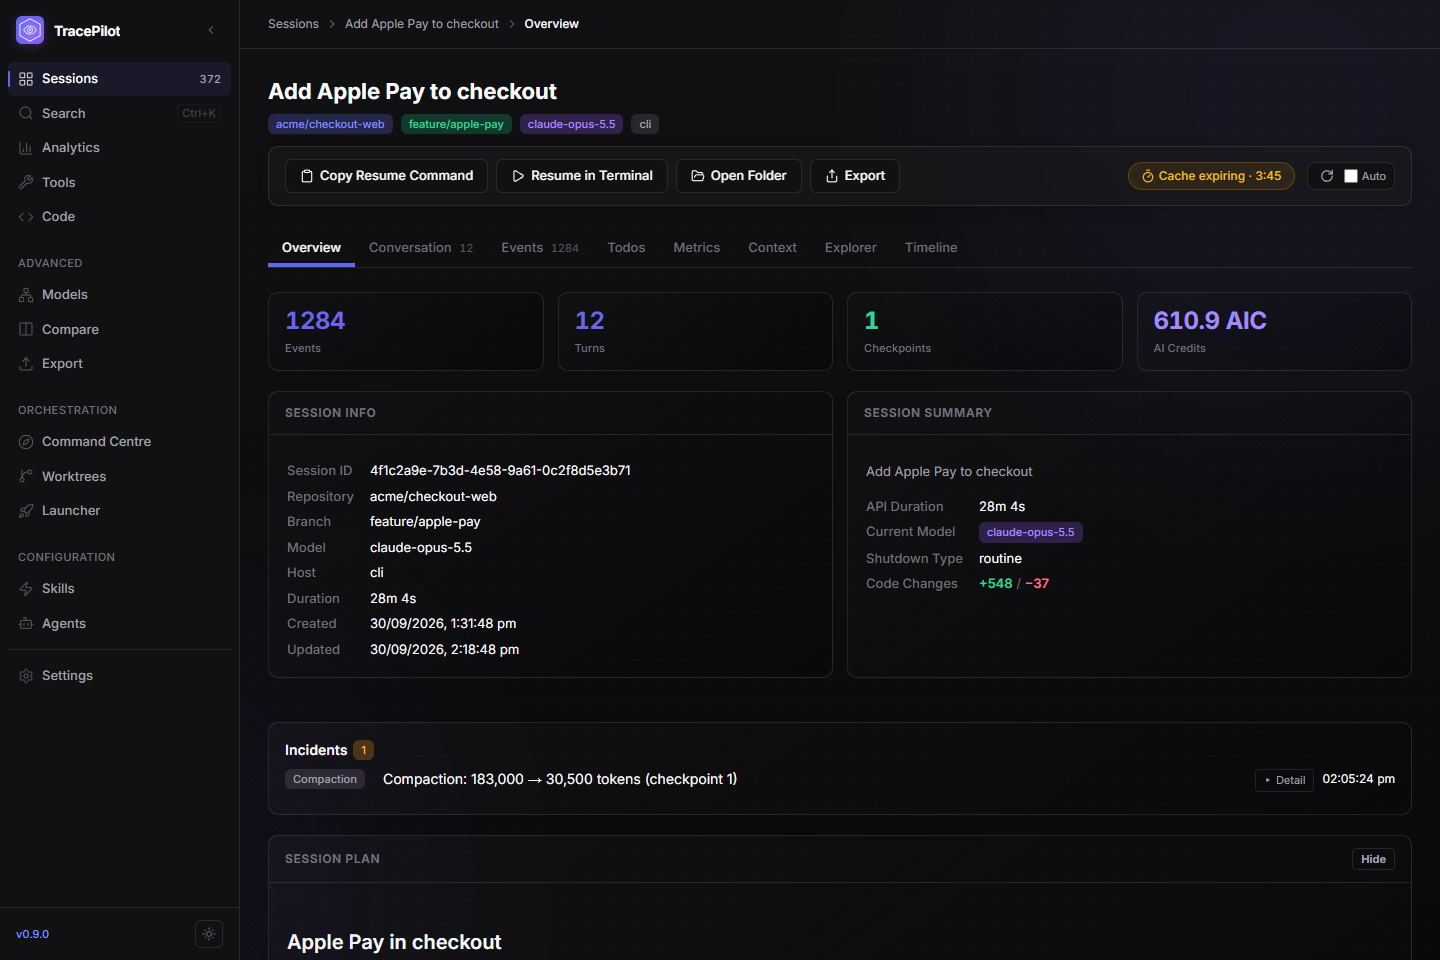
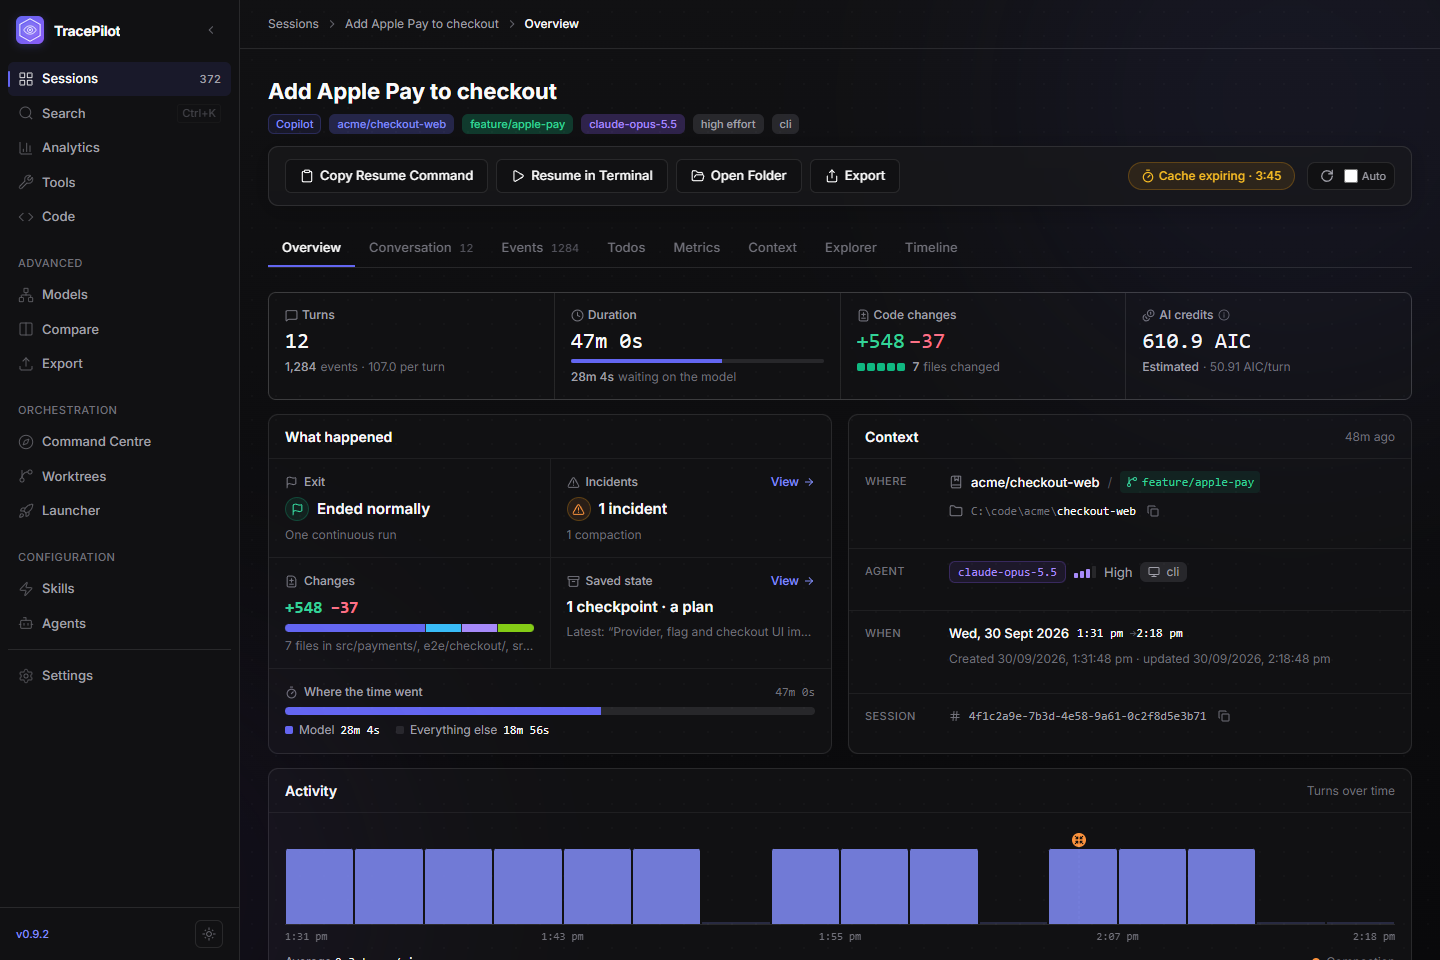
docs(readme): cover Claude Code sessions and refresh the screenshots (#1029)
* docs(readme): cover Claude Code sessions and refresh the screenshots

The README now describes TracePilot as a viewer for both Copilot CLI and
Claude Code sessions: where each source is read from, the source switch,
USD versus AI Credit costs, what stays Copilot-only, and the redesigned
Overview and analytics dashboards. The release how-to is cut to a pointer
to the release guide.

The README showcase now matches the current app:

- About a third of its sessions are Claude Code sessions (Claude Code
  model ids, no host), with Busy and Waiting run states.
- Analytics rows, costs and per-day USD are split by source; Tools has
  calls per day; the hero session has turn activity and high reasoning.
- The Analytics capture shows the Activity chart as lines, so Copilot and
  Claude Code read as two series. Capture `button` actions take a `role`.
- The visual harness turns Claude Code sessions on by default, as
  first-run setup does when it finds them. All 131 CI cases still
  capture without errors or missing fixtures.

The site export folds the showcase's sources back into its own
Copilot-priced view, so the landing page data is unchanged.

* docs(readme): link the website and download under the tagline

---------

diff --git a/README.md b/README.md
@@ -5,14 +5,19 @@
 </p>
 
 <p align="center">
-  <strong>A desktop app for inspecting, searching, and launching GitHub Copilot CLI sessions.</strong>
+  <strong>A desktop app for inspecting, searching, and launching GitHub Copilot CLI and Claude Code sessions.</strong>
 </p>
 
-TracePilot is built for developers who use GitHub Copilot CLI heavily and want a clearer view of what happened across their sessions: prompts, assistant turns, subagents and the messages they exchange, tool calls, todos, checkpoints, context growth, prompt-cache state, token usage, AI Credits, search, and orchestration.
+<p align="center">
+  <a href="https://mattshelton04.github.io/TracePilot/"><strong>Website and live demo</strong></a> ·
+  <a href="https://github.com/MattShelton04/TracePilot/releases/latest"><strong>Download</strong></a>
+</p>
 
-It reads the session data Copilot CLI writes under `~/.copilot/session-state/` by default, indexes it locally, and presents it in a Tauri desktop app backed by Rust, SQLite, and Vue.
+TracePilot is built for developers who lean on coding agents and want a clearer view of what happened across their sessions: prompts, assistant turns, subagents and the messages they exchange, tool calls, todos, checkpoints, context growth, prompt-cache state, token usage, cost, search, and orchestration.
 
-![TracePilot session library](docs/images/readme-session-list.png)
+It reads the sessions Copilot CLI writes under `~/.copilot/session-state/` and Claude Code writes under `~/.claude/projects/`, indexes them locally, and shows them side by side in a Tauri desktop app backed by Rust, SQLite, and Vue. Your session data stays on your machine.
+
+![TracePilot session library with Copilot CLI and Claude Code sessions](docs/images/readme-session-list.png)
 
 > **Project status:** TracePilot is early-stage software. It is useful today, but the UI and internal data model still change quickly.
 >
@@ -22,7 +27,6 @@ It reads the session data Copilot CLI writes under `~/.copilot/session-state/` b
   <a href="#what-you-can-do">What you can do</a> |
   <a href="#screenshots">Screenshots</a> |
   <a href="https://mattshelton04.github.io/TracePilot/visual/">Visual history</a> |
-  <a href="https://mattshelton04.github.io/TracePilot/">Website</a> |
   <a href="#install-and-run">Install and run</a> |
   <a href="#architecture">Architecture</a> |
   <a href="#development">Development</a> |
@@ -33,22 +37,22 @@ It reads the session data Copilot CLI writes under `~/.copilot/session-state/` b
 
 ## What you can do
 
-### Inspect Copilot CLI sessions
+### Inspect sessions
 
-Browse your Copilot CLI session history as a searchable library, then open any session for a tabbed deep-dive:
+Browse your session history as a searchable library, filter it by source, repository, or folder, and see which sessions are **Busy** or **Waiting** right now. Open any session for a tabbed deep-dive:
 
 | Area | What it helps with |
 | --- | --- |
-| **Overview** | Session metadata, plan and checkpoint summaries, incidents, AI Credits, and high-level stats. |
+| **Overview** | Headline numbers, how the session ended, incidents, changes, plan and checkpoints, and turn activity over time. |
 | **Conversation** | User/assistant turns, reasoning, model switches, parallel subagents, skill invocations, tool calls, and rich tool-result renderers. |
 | **Events** | Raw session events with filtering and pagination for debugging parser or CLI behavior. |
 | **Todos** | Copilot's task state as a list or dependency graph. |
-| **Metrics** | AI Credits, token and cache usage per model or per agent, duration, code changes, and prompt-cache timing. |
+| **Metrics** | Cost, token and cache usage per model or per agent, duration, code changes, and prompt-cache timing. |
 | **Context** | How the context window grows by turn or over time (system prompt, tool definitions, conversation), where compactions happened, and which tools contribute most. |
 | **Explorer** | Files inside the session state directory, with viewers for Markdown, JSON/JSONL, CSV, SQLite, images, and more. |
 | **Timeline** | Swimlane, waterfall, and agent-tree views, plus a **Messages** view of how agents launched, messaged, and read back from each other. |
 
-The session header shows whether the prompt cache is warm, expiring, or expired, with a live countdown. Sessions can open in pop-out windows and auto-refresh while they run. Rich renderers cover common tool output such as diffs, patches, shell output, search and web-search results, SQL, file trees, `ask_user` prompts, and the agent-control tools (`read_agent`, `write_agent`, `list_agents`).
+The session header shows the model, reasoning effort, and whether the prompt cache is warm, expiring, or expired, with a live countdown. **Resume in Terminal** reopens a session in its folder. Sessions can open in pop-out windows and auto-refresh while they run. Rich renderers cover common tool output such as diffs, patches, shell output, search and web-search results, SQL, file trees, `ask_user` prompts, and the agent-control tools (`read_agent`, `write_agent`, `list_agents`).
 
 | Conversation | Agent timeline |
 | --- | --- |
@@ -58,17 +62,27 @@ The session header shows whether the prompt cache is warm, expiring, or expired,
 | --- | --- |
 | ![Sequence diagram of messages between agents](docs/images/readme-agent-messages.png) | ![Todo dependency graph](docs/images/readme-todos.png) |
 
-| Context | Metrics |
+| Overview | Context |
 | --- | --- |
-| ![Context window growth with a compaction](docs/images/readme-context.png) | ![Session metrics with cache breakdown](docs/images/readme-metrics.png) |
+| ![Session overview with headline numbers and turn activity](docs/images/readme-session-overview.png) | ![Context window growth with a compaction](docs/images/readme-context.png) |
+
+### Copilot CLI and Claude Code
+
+Claude Code sessions sit next to Copilot CLI sessions in the library, Conversation, Timeline, Metrics, Context, Search, Analytics, and Export. First-run setup turns them on when it finds Claude Code's folder (`CLAUDE_CONFIG_DIR`, else `~/.claude`); **Settings → Claude Code** changes the folder or turns them off.
+
+- Sessions, Search, and the analytics pages switch between **All**, **Copilot**, and **Claude Code**. Search also takes `source:copilot` and `source:claude`.
+- Copilot usage is priced in AI Credits and Claude Code usage in API-equivalent US dollars. With both sources, Analytics and Models total them in USD.
+- Launching, the SDK bridge, the config injector, todos, and the skills and agents editors stay Copilot-only.
+
+TracePilot only reads Claude Code's files. Claude Code deletes transcripts older than its `cleanupPeriodDays` setting (30 days by default), and **Settings → Claude Code** can raise it in one click. See [Claude Code sessions](docs/claude-code-sessions.md) for details.
 
 ### Search and analyze session history
 
 TracePilot maintains a local SQLite/FTS5 index so you can search across session metadata and conversation content without sending data to a remote service.
 
-The analytics views help answer questions such as:
+Analytics, Tools, and Code share a dashboard of per-day charts, split by source. They help answer questions such as:
 
-- Which repositories, models, and tools are consuming the most time, tokens, or AI Credits?
+- Which repositories, models, and tools are consuming the most time, tokens, or cost?
 - How well is the prompt cache working, and how often do sessions resume after it expired?
 - How often do tool calls fail, and which tools dominate a session?
 - Which files and file types are touched most often?
@@ -80,7 +94,7 @@ Available top-level analysis pages include Search, Analytics, Tools, Code Impact
 | --- | --- | --- |
 | ![Full-text search across sessions](docs/images/readme-search.png) | ![Analytics dashboard](docs/images/readme-analytics.png) | ![Tool analysis dashboard](docs/images/readme-tool-analysis.png) |
 
-### Understand agents and skills
+### Understand Copilot CLI agents and skills
 
 - **Agents** lists built-in, personal, and project Copilot CLI agents, plus agents seen only in sessions. Each has run counts, durations, and failure rates, a definition editor, its effective configuration, and `/subagents` model overrides.
 - **Skills** creates, edits, and imports Copilot CLI skills (including from GitHub through the `gh` CLI) and shows how often each skill is invoked, by whom, and how many tokens it injects. Unused, dormant, drifted, and shadowed skills are flagged.
@@ -97,8 +111,6 @@ The orchestration pages are for starting and organizing Copilot CLI work from th
 - **Session Launcher** builds Copilot CLI launch commands with repository, branch, model, reasoning effort, prompt, environment, and optional worktree settings.
 - **Worktree Manager** discovers registered repositories, creates/removes/prunes worktrees, fetches remotes, opens folders, and launches sessions from worktrees.
 
-TracePilot understands the newer Copilot CLI settings layout: user-editable settings belong in `~/.copilot/settings.json`, while CLI-managed internal state can remain in `~/.copilot/config.json`.
-
 | Session Launcher | Worktrees |
 | --- | --- |
 | ![Session launcher with a prepared launch](docs/images/readme-launcher.png) | ![Worktree manager](docs/images/readme-worktrees.png) |
@@ -107,8 +119,8 @@ TracePilot understands the newer Copilot CLI settings layout: user-editable sett
 
 Settings → Additional Features groups optional surfaces:
 
-- **Recommended:** Skills, Agents, Export, and Prompt Cache Insights are on by default. **Exact Context Capture** is opt-in and adds a CLI Context page that records and compares the exact context a session sends to the model.
-- **Experimental** (off by default):
+- **Recommended:** Skills, Agents, Export, and Prompt Cache Insights are on by default. **Exact Context Capture** is opt-in and adds a CLI Context page that records and compares the exact context a Copilot session sends to the model.
+- **Experimental** (off by default, Copilot CLI only):
   - **Copilot SDK Bridge**: steer sessions from TracePilot through the official Copilot SDK, and follow terminal sessions live when they run with `copilot --ui-server` (sessions TracePilot launches get this flag by default).
   - **MCP Servers**: add, import, configure, toggle, and health-check MCP servers compatible with Copilot CLI configuration.
   - **Session Replay**: step through session event timelines using indexed session data.
@@ -116,7 +128,7 @@ Settings → Additional Features groups optional surfaces:
 
 ### Export and share sessions
 
-TracePilot can export sessions as Markdown, TracePilot JSON, or raw session archives, with configurable sections and redaction options. Session-level export is available from session detail; the top-level Export page provides a broader export/import workflow.
+Export sessions as Markdown, TracePilot JSON, or raw session archives, with configurable sections and redaction. Claude Code sessions export as Markdown or JSON, always without account details. Export from a session's header, or use the Export page for bulk export and import.
 
 ---
 
@@ -125,15 +137,15 @@ TracePilot can export sessions as Markdown, TracePilot JSON, or raw session arch
 The README screenshots are generated rather than captured by hand. The
 [visual harness](docs/visual-regression.md#readme-screenshots) renders the real
 frontend at 1440×960 against a synthetic showcase workspace of fictional
-`acme/*` repositories, so the images contain no personal session data and can be
-refreshed after any UI change:
+`acme/*` repositories with both Copilot CLI and Claude Code sessions, so the
+images contain no personal session data and can be refreshed after any UI change:
 
 ```powershell
 node scripts/visual/capture.mjs --suite=readme --channel=msedge --docs
 ```
 
-More views are captured than this page embeds, including the
-[session overview](docs/images/readme-session-overview.png),
+More views are captured than this page embeds, including
+[session metrics](docs/images/readme-metrics.png),
 [session files](docs/images/readme-session-explorer.png),
 [code impact](docs/images/readme-code-impact.png),
 [model comparison](docs/images/readme-model-comparison.png),
@@ -152,7 +164,7 @@ wipe, overlay, and highlighted pixel differences. See
 ### Prerequisites
 
 - Windows with the WebView2 runtime, or macOS 12+ on Apple Silicon.
-- GitHub Copilot CLI with session history.
+- Session history from GitHub Copilot CLI, Claude Code, or both.
 - For source builds: Rust, Node.js 22, pnpm 10, and the Tauri 2 prerequisites.
   The exact known-good versions are recorded in `.node-version` and the root
   `packageManager` field.
@@ -202,7 +214,7 @@ TracePilot/
 │   ├── desktop/                    # Tauri 2 desktop app, Vue 3 frontend
 │   └── cli/                        # Experimental TypeScript CLI utilities
 ├── crates/
-│   ├── tracepilot-core/            # Session parsing, models, analytics
+│   ├── tracepilot-core/            # Copilot CLI and Claude Code parsing, analytics
 │   ├── tracepilot-indexer/         # SQLite + FTS5 indexing and queries
 │   ├── tracepilot-export/          # Markdown/JSON/raw exports and imports
 │   ├── tracepilot-orchestrator/    # Worktrees, launcher, config injection
@@ -222,8 +234,8 @@ TracePilot/
 The main data flow is:
 
 ```text
-Copilot session files
-  -> tracepilot-core parses JSONL/YAML/SQLite session data
+Copilot CLI and Claude Code session files
+  -> tracepilot-core parses each source's JSONL/YAML/SQLite session data
   -> tracepilot-indexer stores searchable metadata/content in SQLite FTS5
   -> tracepilot-tauri-bindings exposes typed Tauri commands
   -> @tracepilot/client calls those commands from Vue/Pinia views
@@ -233,6 +245,7 @@ Useful deeper docs:
 
 - [Architecture overview](docs/architecture/overview.md)
 - [Data integration guide](docs/data-integration-guide.md)
+- [Claude Code sessions](docs/claude-code-sessions.md)
 - [Testing guide](docs/testing.md)
 - [On-disk paths](docs/on-disk-paths.md)
 - [Performance playbook](docs/performance-playbook.md)
@@ -275,15 +288,7 @@ cover the remaining guides and supported developer commands.
 
 ### Versioning and releases
 
-The workspace version is centralized in the root `Cargo.toml` and mirrored into package metadata by the release tooling.
-
-```powershell
-.\scripts\bump-version.ps1 -Version <version>
-```
-
-The script updates only the root and pnpm workspace package manifests, leaving third-party test fixtures and local Copilot packages at their own versions. It requires pnpm and `cargo-edit` (`cargo install cargo-edit`).
-
-After a version bump, update `CHANGELOG.md` and `apps/desktop/public/release-manifest.json`, run the validation gates, and open a PR to `main`. Once the PR is merged, tag the merged commit with `v<version>` and push that tag to trigger the repository release workflow. The [release guide](docs/releasing.md) has the full checklist and note-writing conventions.
+The workspace version lives in the root `Cargo.toml`, and `.\scripts\bump-version.ps1 -Version <version>` mirrors it into the package manifests. A release is tagged `v<version>` after its PR merges; the [release guide](docs/releasing.md) has the full checklist.
 
 ---
 
@@ -293,7 +298,8 @@ Current near-term areas:
 
 - Make the Copilot SDK bridge reliable enough to graduate from experimental.
 - Improve live-session monitoring and alerting.
-- Continue hardening parser coverage as Copilot CLI evolves.
+- Continue hardening parser coverage as Copilot CLI and Claude Code evolve.
+- Bring more Copilot-only tools to Claude Code, and make room for other agent CLIs.
 - Polish export/import workflows and team-shareable reports.
 - Expand platform validation beyond Windows.
 

diff --git a/docs/visual-regression.md b/docs/visual-regression.md
@@ -419,9 +419,10 @@ under `--out` (default `.tracepilot/visual/`) for review. README cases are not
 part of PR visual CI and do not change its 101-view inventory.
 
 Their data comes from [`showcase/`](../scripts/visual/showcase/index.mjs): about
-370 sessions across fictional `acme/*` repositories, with analytics, tools,
-code-impact and model totals derived from those same sessions so every page
-agrees. One running session ("Add Apple Pay to checkout") supplies the
+370 sessions across fictional `acme/*` repositories, about a third of them
+recorded by Claude Code, with analytics, tools, code-impact and model totals
+(split by source, Claude Code priced in USD) derived from those same sessions so
+every page agrees. One running session ("Add Apple Pay to checkout") supplies the
 conversation, parallel agents and inter-agent messages, todo dependencies,
 context compaction, prompt-cache window, metrics, plan and files. Repositories
 and worktrees are returned per repository, as the backend does. Commands the
@@ -430,7 +431,8 @@ mocks. README cases pin the clock to the showcase's own date, use the app's
 default features (plus any listed per case), show the workspace version in the
 sidebar, and mark it as already seen so the release-notes dialog stays closed.
 
-Cases can prepare a view with `actions`: `button` (click by accessible name),
+Cases can prepare a view with `actions`: `button` (click by accessible name;
+`role` reaches other roles such as a segmented control's `radio`),
 `select` (choose an option by label or value), `fill` (type into a labelled
 field) and `scroll` (bring a selector to a fixed offset below the top of the
 page's scroll container). After regenerating, inspect every image: each one
